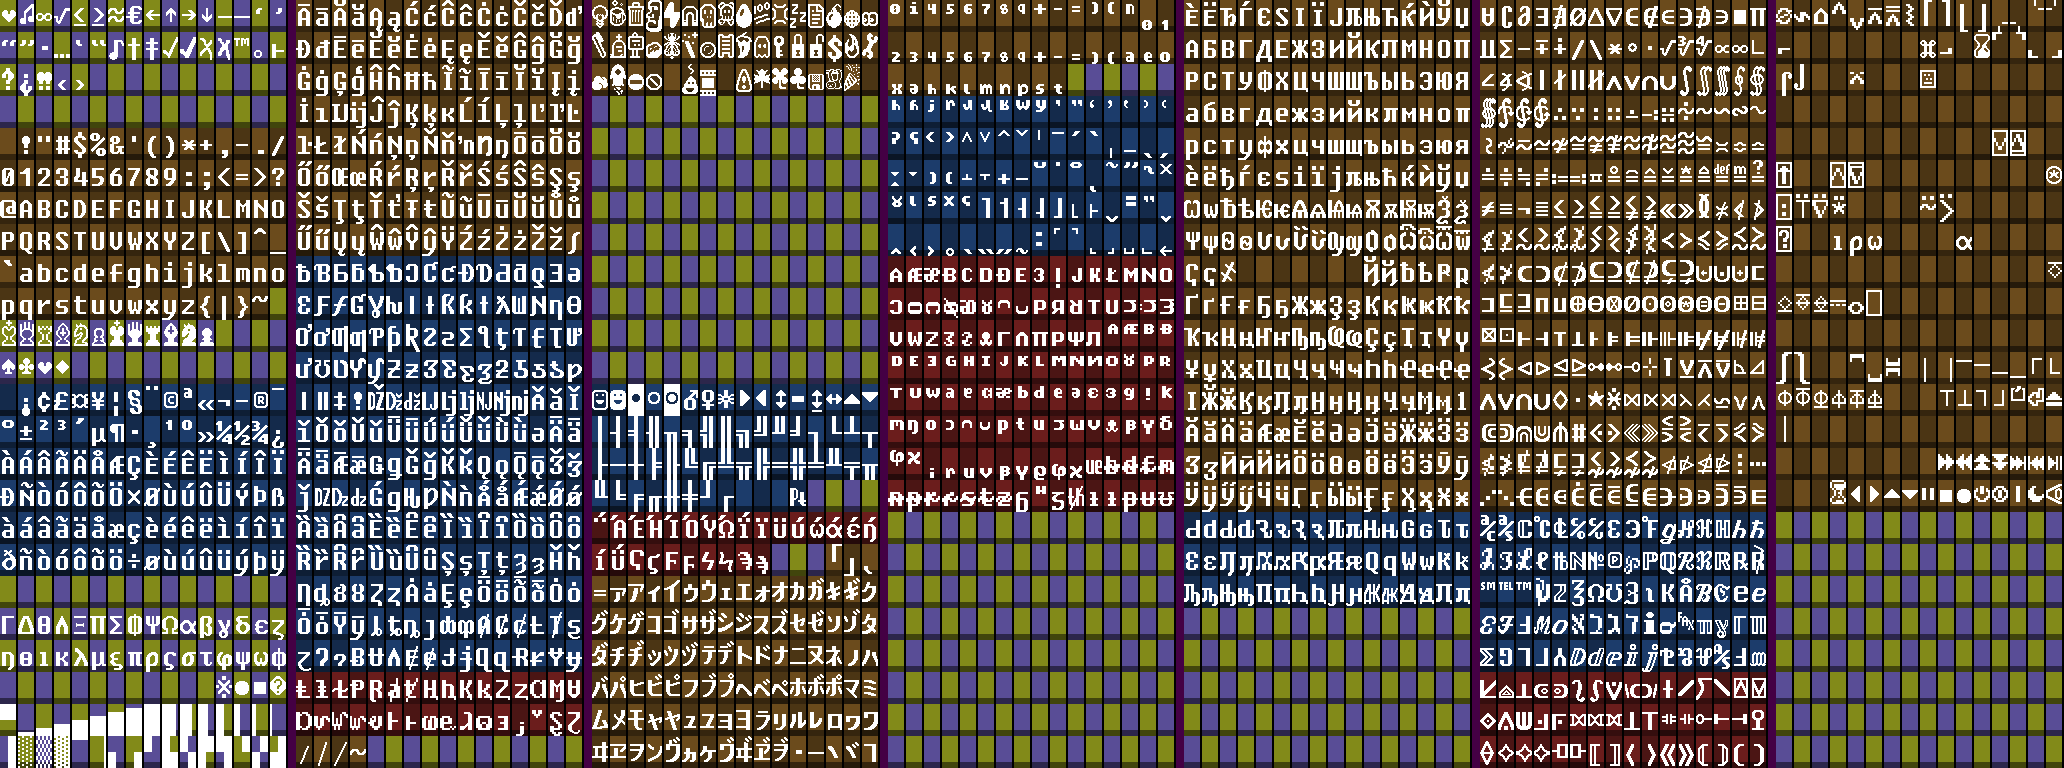
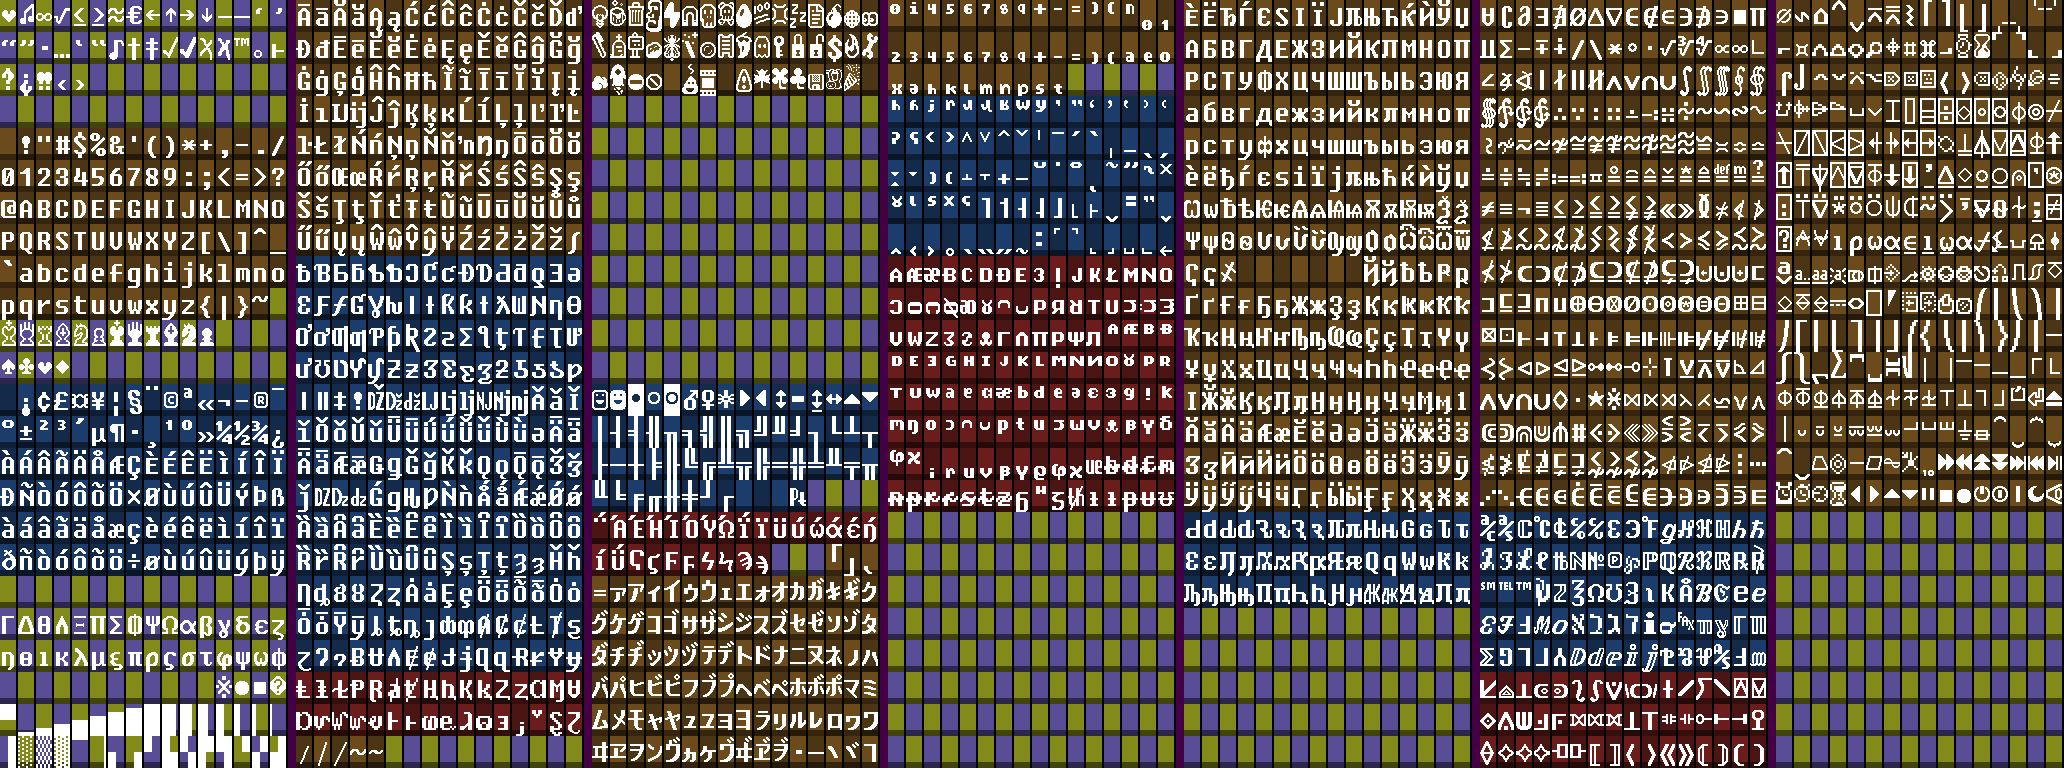
Finished 1x Miscellaneous Technical. Many improvements to 2x glyphs. Minor fixes to bold.
git-svn-id: file:///home/runner/work/tom7misc-sync-action/tom7misc-sync-action/upstream/trunk@7330 c7e11af0-4c7a-11f1-9edd-117cb6f09d55

diff --git a/bit7/font-image.cc b/bit7/font-image.cc
@@ -34,6 +34,8 @@ enum PrivateUse : uint32_t {
   PUA_SLASH_STEEP,
   PUA_SLASH,
   PUA_CENTER_TILDE,
+  // lighter than tilde
+  PUT_SWUNG_DASH,
 
   PUA_END,
 };
@@ -786,7 +788,8 @@ static PageInfo PageBit7Extended() {
     // when followed by U+FE0F.
     0x1F39E,
 
-    -1,
+    // EMOJI: PACKAGE
+    0x1F4E6,
 
     // Warning Sign
     0x26A0,
